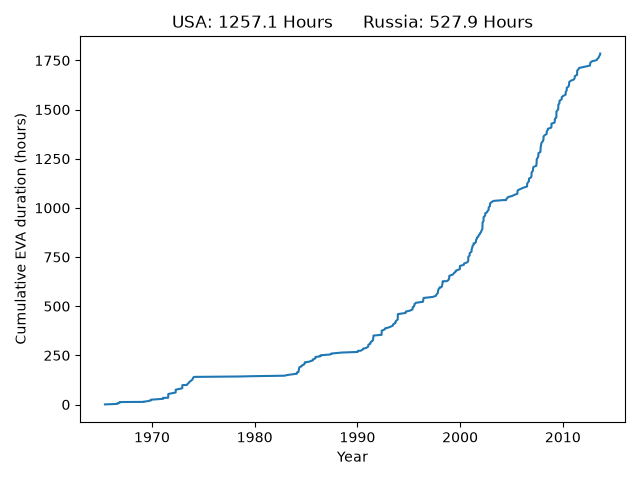
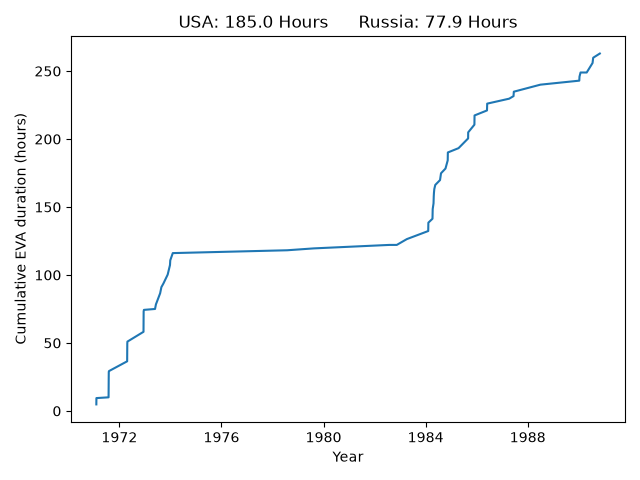
added start date and end date

diff --git a/evacodev2.py b/evacodev2.py
@@ -2,6 +2,9 @@ import json
 from datetime import datetime
 import matplotlib.pyplot as plt
 
+start_year = int(input("Start year: "))
+end_year = int(input("End year: "))
+
 with open("eva-data.json", "r", encoding="utf-8") as file:
     eva_data = json.load(file)
 
@@ -16,6 +19,9 @@ for eva in eva_data:
         continue
 
     date = datetime.fromisoformat(date_text)
+    if not (start_year <= date.year <= end_year):
+        continue
+
     hours, minutes = map(int, duration_text.split(":"))
     duration_hours = hours + minutes / 60
 
